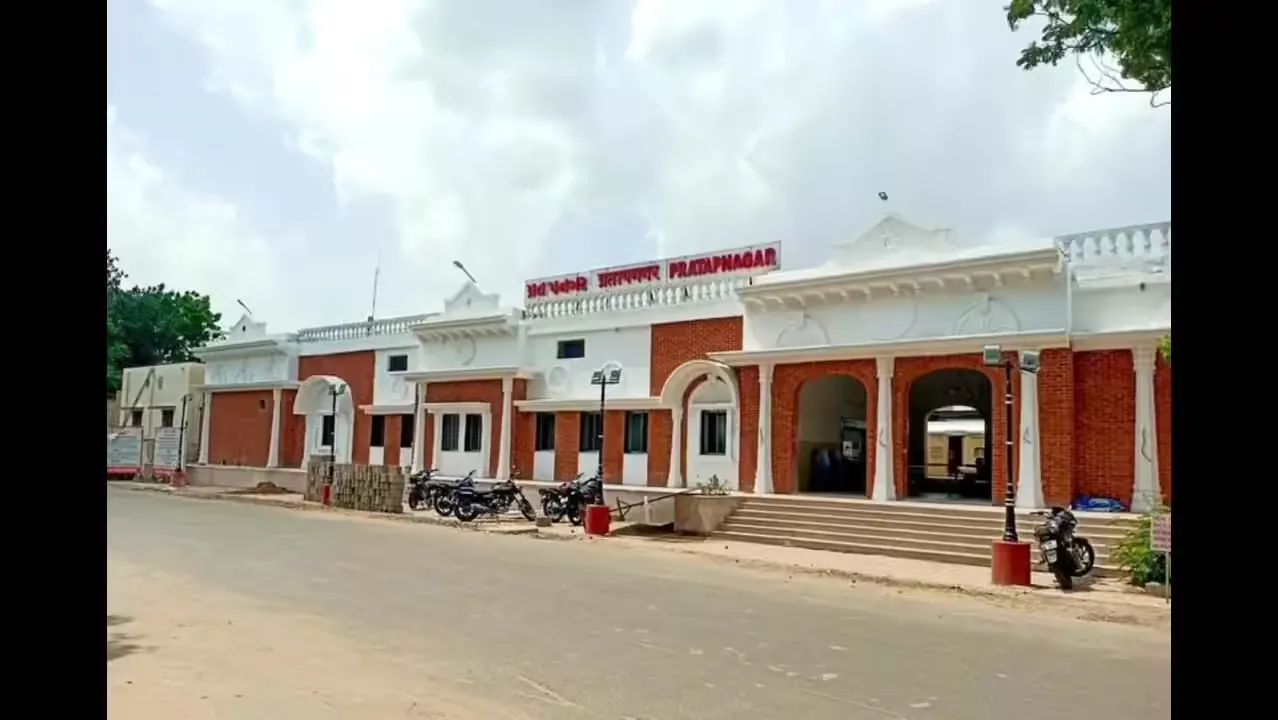
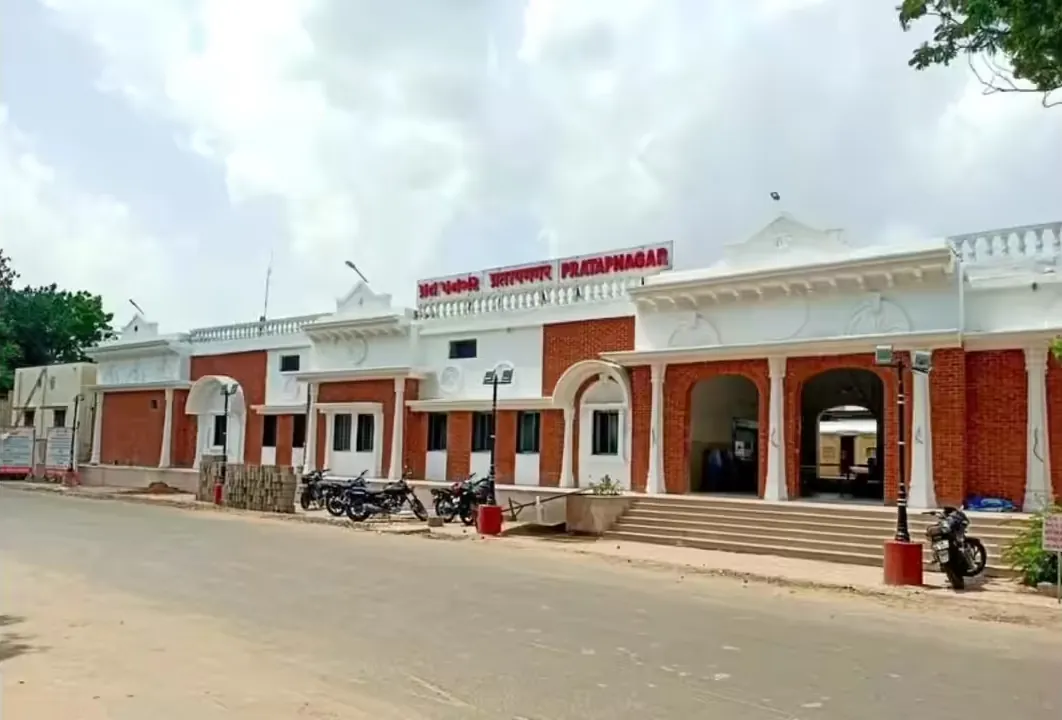
Home hero: full-screen slideshow of completed projects
- Hero is now a full-screen background of completed-project photos that
  crossfade every 6 seconds with a slow zoom (Kalol, Pratapnagar, Dakor,
  Shyamakhali, Mehemdavad, Valsad, Mehsana, Sanjay Puri residence)
- Caption shows the project on screen, its station nameboard, and dots to
  jump between photos; a Pause button stops the rotation, and it also
  pauses while the tab is hidden and respects reduced-motion settings
- Photos load one ahead of time instead of all at once
- Crop the black side bars out of the Pratapnagar photo

Claude-Session: https://claude.ai/code/session_01CqhKiE5t2z8ibPyqRLCJCS

diff --git a/index.html b/index.html
@@ -34,9 +34,10 @@
 </header>
 <main id="main">
 
-<section class="hero">
-  <div class="wrap">
-    <div>
+<section class="hero hero-slides" aria-roledescription="carousel" aria-label="Completed projects">
+  <div class="hero-media" aria-live="off"><img class="hero-slide is-on" src="assets/img/projects/kalol.webp" fetchpriority="high" alt="Kalol railway station facade lit in tricolour at night" style="object-position:50% 50%" data-name="Kalol Railway Station" data-scope="Facade lighting" data-year="2026" data-board="kalol"><img class="hero-slide" data-src="assets/img/projects/pratapnagar.webp" alt="Pratapnagar railway station building lit at dusk" style="object-position:50% 50%" data-name="Pratapnagar Railway Station" data-scope="Indoor &amp; outdoor lighting" data-year="2026" data-board="pratapnagar"><img class="hero-slide" data-src="assets/img/projects/dakor.webp" alt="Dakor railway station platform under lit canopy" style="object-position:50% 35%" data-name="Dakor Railway Station" data-scope="Indoor &amp; outdoor lighting" data-year="2025" data-board="dakor"><img class="hero-slide" data-src="assets/img/projects/shyamakhali.webp" alt="Shyamakhali railway station facade lit at night" style="object-position:50% 50%" data-name="Shyamakhali Railway Station" data-scope="Facade lighting" data-year="2025" data-board=""><img class="hero-slide" data-src="assets/img/projects/mehemdavad.webp" alt="Platform shelter lighting at Mehemdavad railway station" style="object-position:50% 55%" data-name="Mehemdavad Railway Station" data-scope="Indoor &amp; outdoor lighting" data-year="2025" data-board=""><img class="hero-slide" data-src="assets/img/projects/valsad.webp" alt="Pit lighting under a locomotive at Valsad loco shed" style="object-position:50% 70%" data-name="Valsad Loco Shed" data-scope="Pit lights" data-year="2026" data-board=""><img class="hero-slide" data-src="assets/img/projects/residence.webp" alt="Private residence designed by architect Sanjay Puri" style="object-position:50% 40%" data-name="Private Residence · Ar. Sanjay Puri" data-scope="Indoor lights &amp; switches" data-year="2026" data-board=""><div class="hero-shade"></div></div>
+  <div class="wrap hero-inner">
+    <div class="hero-copy">
       <span class="eyebrow">Lighting the backbone of infrastructure</span>
       <h1>We light the stations India <em>travels through.</em></h1>
       <p class="lede">Facade, platform and depot lighting for Indian Railways, EPC contractors, developers and architects. Specified, supplied and supported by one team, through our Jaquar Lighting partnership.</p>
@@ -45,11 +46,13 @@
         <a class="btn btn-line" href="projects.html">See all 19 projects</a>
       </div>
     </div>
-    <figure class="hero-fig">
-      <img src="assets/img/projects/kalol.webp" alt="Kalol railway station at night, its facade lit in saffron, white and green and reflected in water" width="1024" height="768" fetchpriority="high">
-      <div class="board-sign" aria-hidden="true"><span class="gu">કલોલ</span><span class="hi">कलोल</span><span class="en">KALOL</span></div>
-      <figcaption><span>Kalol Railway Station · Facade lighting</span><span>Commissioned 2026</span></figcaption>
-    </figure>
+    <div class="hero-caption">
+      <div class="hero-now"><div class="board-sign sm" data-for="kalol" aria-hidden="true"><span class="gu">કલોલ</span><span class="hi">कलोल</span><span class="en">KALOL</span></div><div class="board-sign sm" data-for="pratapnagar" hidden aria-hidden="true"><span class="gu">પ્રતાપનગર</span><span class="hi">प्रतापनगर</span><span class="en">PRATAPNAGAR</span></div><div class="board-sign sm" data-for="dakor" hidden aria-hidden="true"><span class="gu">ડાકોર</span><span class="hi">डाकोर</span><span class="en">DAKOR</span></div><p><b class="hero-name">Kalol Railway Station</b><span class="hero-meta">Facade lighting · Commissioned 2026</span></p></div>
+      <div class="hero-controls">
+        <div class="hero-dots" role="group" aria-label="Choose a project photo"><button type="button" class="hero-dot" aria-label="Show Kalol Railway Station" aria-pressed="true"></button><button type="button" class="hero-dot" aria-label="Show Pratapnagar Railway Station" aria-pressed="false"></button><button type="button" class="hero-dot" aria-label="Show Dakor Railway Station" aria-pressed="false"></button><button type="button" class="hero-dot" aria-label="Show Shyamakhali Railway Station" aria-pressed="false"></button><button type="button" class="hero-dot" aria-label="Show Mehemdavad Railway Station" aria-pressed="false"></button><button type="button" class="hero-dot" aria-label="Show Valsad Loco Shed" aria-pressed="false"></button><button type="button" class="hero-dot" aria-label="Show Private Residence · Ar. Sanjay Puri" aria-pressed="false"></button></div>
+        <button type="button" class="hero-pause" aria-pressed="false">Pause</button>
+      </div>
+    </div>
   </div>
 </section>
 

diff --git a/assets/css/site.css b/assets/css/site.css
@@ -77,21 +77,41 @@ p{margin:0}
 .board-sign .gu{font:600 15px var(--gu)}
 .board-sign .hi{font:600 15px var(--hi)}
 .board-sign .en{font:800 19px var(--display);font-stretch:115%;letter-spacing:.1em}
+.board-sign[hidden]{display:none}
 .board-sign.sm{padding:5px 11px 6px;box-shadow:none;border-width:2px;outline-width:1px}
 .board-sign.sm .en{font-size:14px}
 .board-sign.sm .gu,.board-sign.sm .hi{font-size:11.5px}
 
-/* ---------- Home hero ---------- */
-.hero{padding-block:clamp(40px,7vw,88px) clamp(48px,7vw,96px)}
-.hero .wrap{display:grid;grid-template-columns:minmax(0,1fr) minmax(0,1.08fr);gap:clamp(28px,5vw,64px);align-items:center}
-.hero h1{font-size:clamp(38px,5.2vw,66px);font-weight:800;margin-top:18px}
+/* ---------- Home hero: full-screen project slideshow ---------- */
+.hero{position:relative;overflow:hidden;min-height:calc(100svh - 68px);display:flex;background:var(--board);isolation:isolate}
+.hero-media{position:absolute;inset:0;z-index:-1}
+.hero-slide{position:absolute;inset:0;width:100%;height:100%;object-fit:cover;opacity:0;transform:scale(1.02);transition:opacity 1.4s ease}
+.hero-slide.is-on{opacity:1;animation:heroZoom 9s ease-out forwards}
+@keyframes heroZoom{from{transform:scale(1.02)}to{transform:scale(1.1)}}
+.hero-shade{position:absolute;inset:0;background:
+  linear-gradient(90deg,rgba(5,8,15,.92) 0%,rgba(5,8,15,.72) 38%,rgba(5,8,15,.18) 72%,rgba(5,8,15,.05) 100%),
+  linear-gradient(0deg,rgba(5,8,15,.9) 0%,rgba(5,8,15,0) 34%),
+  linear-gradient(180deg,rgba(5,8,15,.55) 0%,rgba(5,8,15,0) 18%)}
+.hero-inner{width:100%;display:flex;flex-direction:column;justify-content:space-between;gap:48px;padding-block:clamp(56px,10vh,120px) 28px}
+.hero-copy{max-width:640px;margin-block:auto}
+.hero h1{font-size:clamp(40px,6vw,78px);font-weight:800;margin-top:18px;text-shadow:0 2px 24px rgba(0,0,0,.35)}
 .hero h1 em{font-style:normal;color:var(--gold-hi)}
-.hero .lede{margin-top:22px}
+.hero .lede{margin-top:22px;color:#C9D2E1}
+.hero .btn-line{border-color:rgba(231,236,244,.4);background:rgba(10,16,28,.35);backdrop-filter:blur(4px);-webkit-backdrop-filter:blur(4px)}
+.hero .btn-line:hover{border-color:var(--text)}
 .hero-cta{display:flex;flex-wrap:wrap;gap:12px;margin-top:32px}
-.hero-fig{position:relative;margin:0}
-.hero-fig img{width:100%;height:auto;aspect-ratio:4/3;object-fit:cover;border-radius:6px}
-.hero-fig figcaption{display:flex;justify-content:space-between;gap:12px;flex-wrap:wrap;margin-top:12px;font:400 12.5px/1.4 var(--mono);color:var(--mist)}
-.hero-fig .board-sign{position:absolute;left:-18px;bottom:52px}
+.hero-caption{display:flex;justify-content:space-between;align-items:flex-end;gap:20px;flex-wrap:wrap;border-top:1px solid rgba(231,236,244,.18);padding-top:20px}
+.hero-now{display:flex;align-items:center;gap:16px}
+.hero-now p{display:grid;gap:4px}
+.hero-name{font:700 17px/1.2 var(--display);font-stretch:110%}
+.hero-meta{font:400 12.5px/1.4 var(--mono);color:#B7C1D3}
+.hero-controls{display:flex;align-items:center;gap:16px}
+.hero-dots{display:flex;gap:6px}
+.hero-dot{width:26px;height:4px;padding:0;border:0;border-radius:2px;background:rgba(231,236,244,.3);cursor:pointer;position:relative}
+.hero-dot::after{content:"";position:absolute;inset:-10px 0}
+.hero-dot[aria-pressed="true"]{background:var(--gold)}
+.hero-pause{font:500 12px/1 var(--mono);letter-spacing:.08em;text-transform:uppercase;color:var(--text);background:rgba(10,16,28,.45);border:1px solid rgba(231,236,244,.3);border-radius:3px;padding:8px 10px;cursor:pointer}
+.hero-pause:hover{border-color:var(--text)}
 
 /* ---------- Inner page header ---------- */
 .page-head{padding-block:clamp(48px,7vw,88px) clamp(36px,5vw,56px);border-bottom:1px solid var(--rule);background:
@@ -302,8 +322,7 @@ p{margin:0}
   .nav-links a{display:block;padding:12px 0;font-size:16px;border-bottom:1px solid var(--rule)}
   .nav-links a[aria-current="page"]{box-shadow:none;color:var(--gold-hi)}
   .nav-links .nav-cta a{color:var(--gold-hi);border-bottom:0}
-  .hero .wrap,.rfq .wrap,.case,.svc,.split{grid-template-columns:1fr}
-  .hero-fig .board-sign{left:12px;bottom:56px}
+  .rfq .wrap,.case,.svc,.split{grid-template-columns:1fr}
   .proof .wrap{grid-template-columns:repeat(2,1fr)}
   .proof .wrap > div:nth-child(3){border-left:0;padding-left:0}
   .proof .wrap > div:nth-child(n+3){border-top:1px solid var(--rule)}
@@ -330,8 +349,13 @@ p{margin:0}
   .facts{grid-template-columns:1fr}
   .wa-float span{display:none}
   .cat-bar{position:static}
+  .hero{min-height:calc(100svh - 68px)}
+  .hero-shade{background:linear-gradient(0deg,rgba(5,8,15,.95) 0%,rgba(5,8,15,.75) 55%,rgba(5,8,15,.35) 100%)}
+  .hero-now .board-sign{display:none}
+  .hero-caption{padding-bottom:64px}
 }
 @media (prefers-reduced-motion:reduce){
   html{scroll-behavior:auto}
+  .hero-slide.is-on{animation:none;transform:none}
   *{transition:none!important;animation:none!important}
 }

diff --git a/assets/js/site.js b/assets/js/site.js
@@ -14,6 +14,58 @@
     });
   }
 
+  // Home hero: rotate through completed-project photos
+  var hero = document.querySelector(".hero-slides");
+  if (hero) {
+    var slides = hero.querySelectorAll(".hero-slide");
+    var dots = hero.querySelectorAll(".hero-dot");
+    var signs = hero.querySelectorAll(".hero-now .board-sign");
+    var nameEl = hero.querySelector(".hero-name");
+    var metaEl = hero.querySelector(".hero-meta");
+    var pauseBtn = hero.querySelector(".hero-pause");
+    var idx = 0, timer = null, paused = false, DELAY = 6000;
+
+    function load(img) {
+      if (img && img.dataset.src) { img.src = img.dataset.src; img.removeAttribute("data-src"); }
+    }
+    function show(n) {
+      var next = slides[n];
+      load(next);
+      var go = function () {
+        slides[idx].classList.remove("is-on");
+        // restart the zoom animation on the incoming slide
+        next.classList.remove("is-on"); void next.offsetWidth; next.classList.add("is-on");
+        idx = n;
+        dots.forEach(function (d, i) { d.setAttribute("aria-pressed", i === n ? "true" : "false"); });
+        signs.forEach(function (s) { s.hidden = s.dataset.for !== next.dataset.board; });
+        nameEl.textContent = next.dataset.name;
+        metaEl.textContent = next.dataset.scope + " · Commissioned " + next.dataset.year;
+        load(slides[(n + 1) % slides.length]);
+      };
+      if (next.complete && next.naturalWidth) go();
+      else next.addEventListener("load", go, { once: true });
+    }
+    function start() {
+      stop();
+      if (!paused && slides.length > 1) timer = setInterval(function () { show((idx + 1) % slides.length); }, DELAY);
+    }
+    function stop() { if (timer) { clearInterval(timer); timer = null; } }
+
+    dots.forEach(function (d, i) {
+      d.addEventListener("click", function () { if (i !== idx) show(i); start(); });
+    });
+    if (pauseBtn) pauseBtn.addEventListener("click", function () {
+      paused = !paused;
+      pauseBtn.setAttribute("aria-pressed", paused ? "true" : "false");
+      pauseBtn.textContent = paused ? "Play" : "Pause";
+      paused ? stop() : start();
+    });
+    document.addEventListener("visibilitychange", function () { document.hidden ? stop() : start(); });
+
+    load(slides[1]);
+    start();
+  }
+
   // Project board filter
   document.querySelectorAll("[data-board]").forEach(function (board) {
     var buttons = board.querySelectorAll(".filters button");
